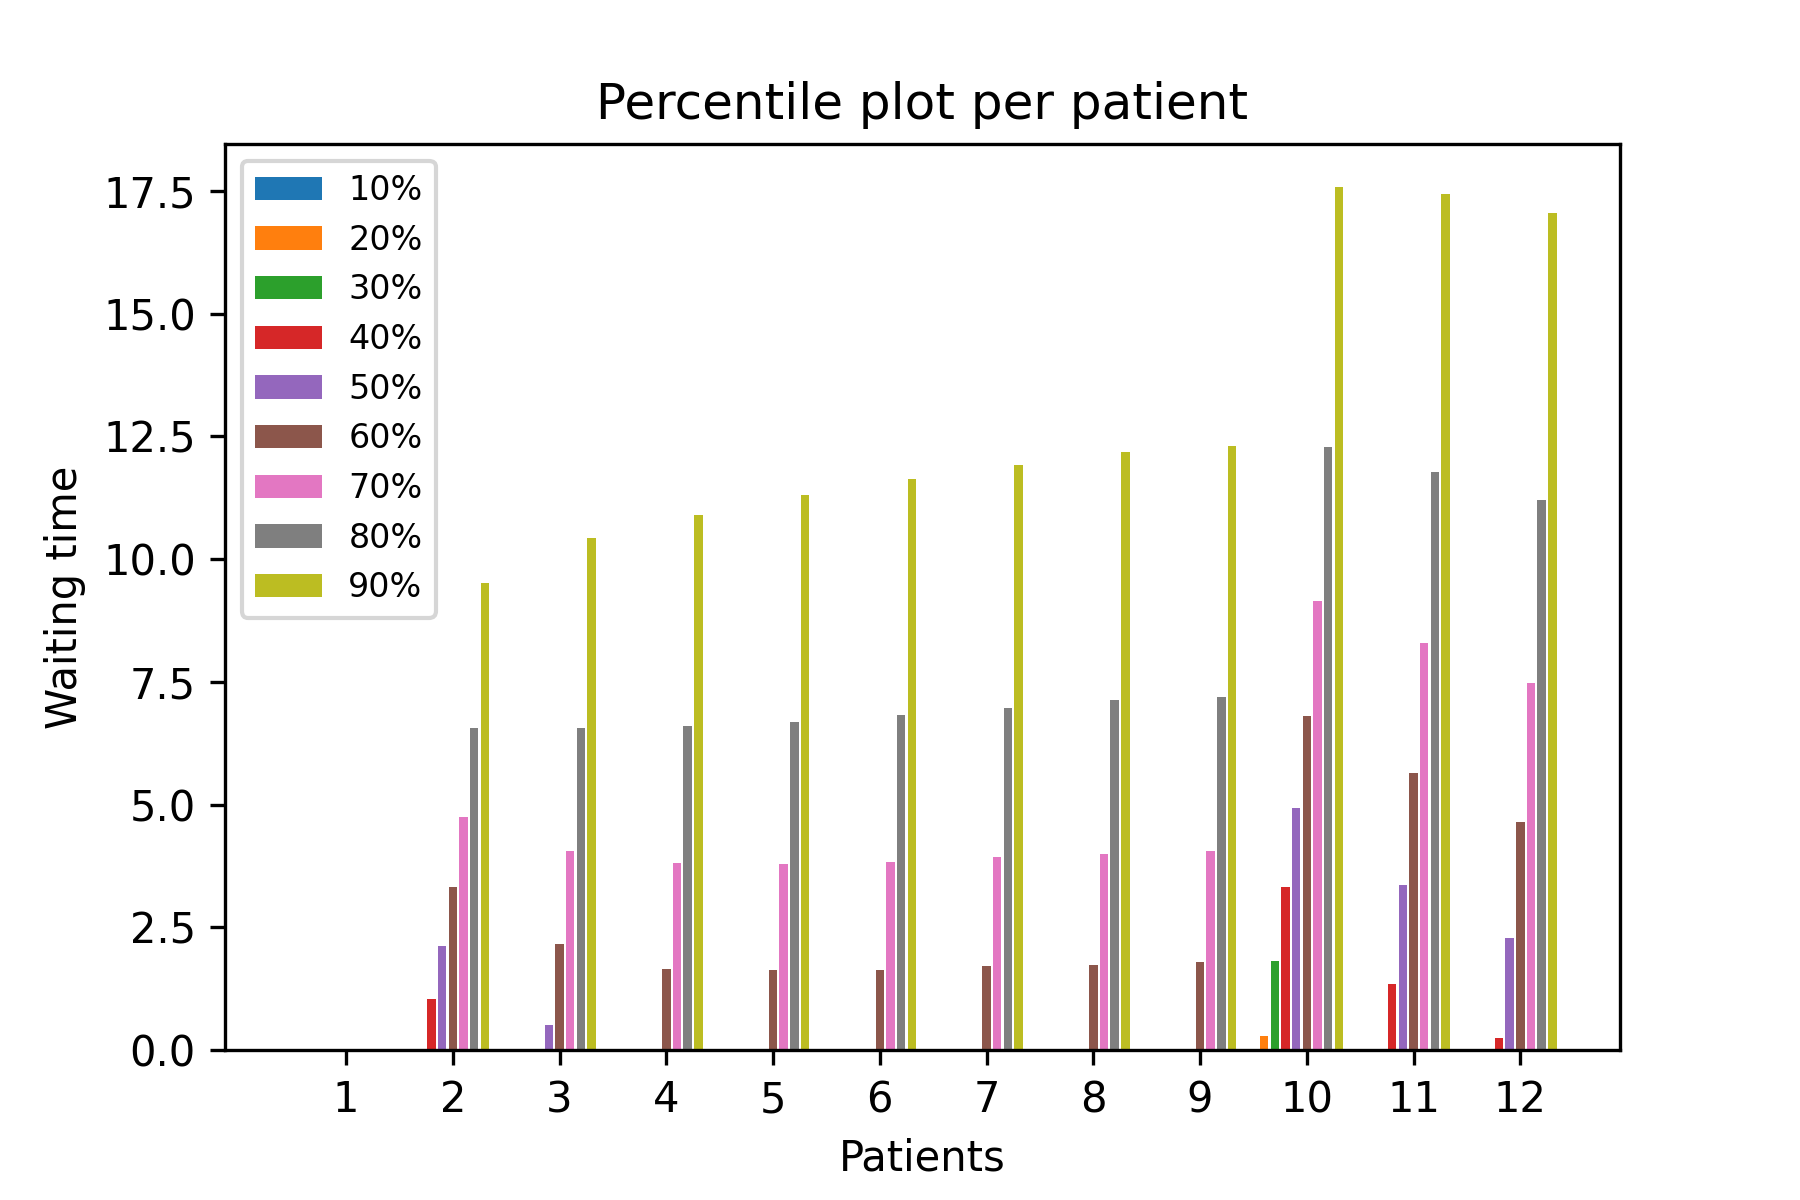
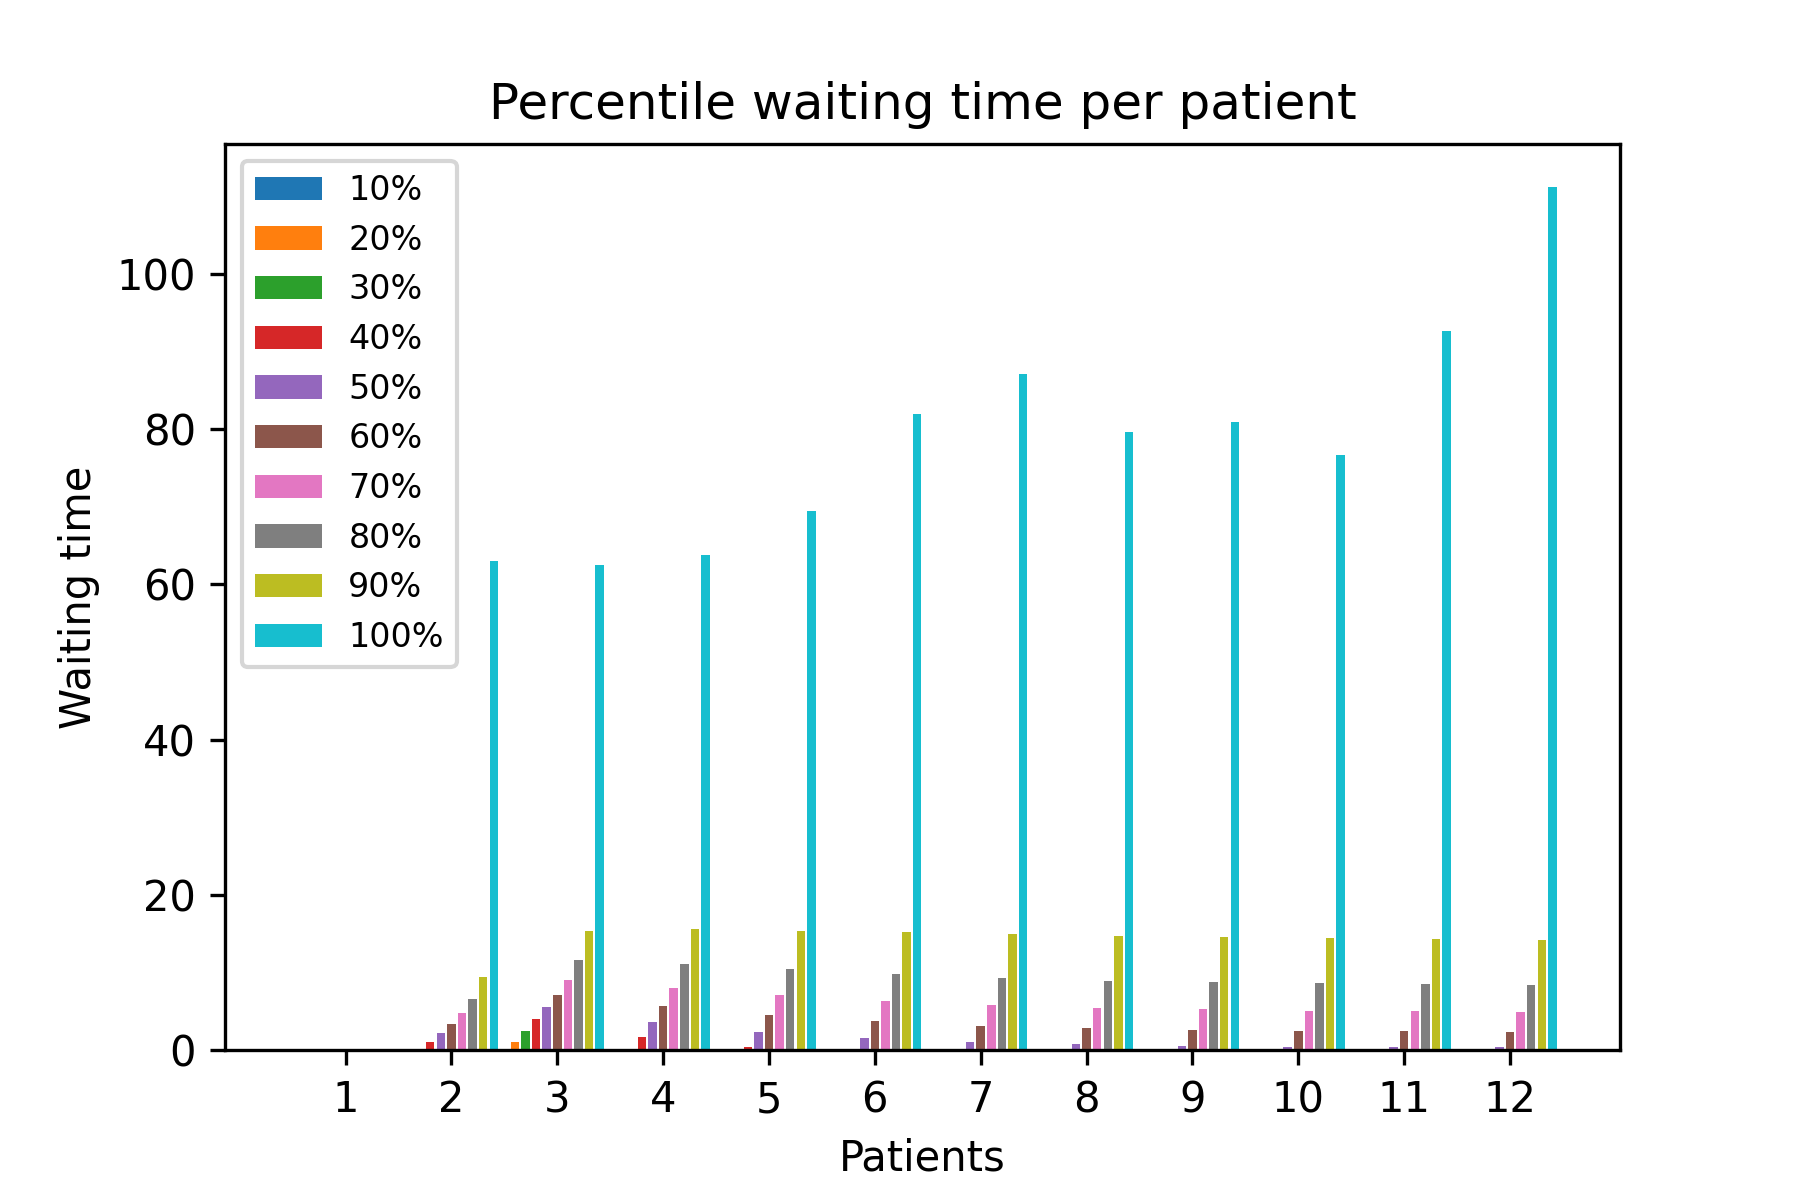
percentile and seed

diff --git a/assignment2_fergus2.py b/assignment2_fergus2.py
@@ -21,6 +21,7 @@ from statistics import mean
 import matplotlib.pyplot as plt
 
 random.seed(10)
+np.random.seed(10)
 #%%
 # """
 # a.
@@ -223,7 +224,7 @@ while budget > 0:
     budget -= 2*sims
 
 print("Total time: {:.2f}".format(time.time()-start_time))
-    
+
 
 #%%
 schedule_with_counts = {schedule:scores[schedule]['count'] for schedule in scores}
@@ -261,16 +262,16 @@ _,_,_,waiting_times = simulate(optimal_schedule,simulations=100000)
 patient_waiting_times = [[i[k] for i in waiting_times] for k in range(12)]
 
 pcts = []
-for j in [10,20,30,40,50,60,70,80,90]:
+for j in [10,20,30,40,50,60,70,80,90,100]:
     pcts.append([np.percentile(i,j) for i in patient_waiting_times])
     
 # pcts_array = [np.percentile(i,[10,20,30,40,50,60,70,80,90]) for i in patient_waiting_times]
 
 X_axis = np.arange(12)
 
-labels = ['10%','20%','30%','40%','50%','60%','70%','80%','90%']
+labels = ['10%','20%','30%','40%','50%','60%','70%','80%','90%','100%']
 
-for p in range(9):
+for p in range(10):
     if p<5:
         step = -0.1*(5-p)
     else:
@@ -280,8 +281,8 @@ for p in range(9):
 
 plt.xticks(X_axis, ['1','2','3','4','5','6','7','8','9','10','11','12'])
 plt.xlabel("Patients")
-plt.ylabel("Waiting time")
-plt.title("Percentile plot per patient")
+plt.ylabel("Waiting time (log)")
+plt.title("Percentile waiting time per patient")
 plt.legend(fontsize=8)
-# plt.show()
-plt.savefig('percentileplot.png', dpi=300)
+plt.yscale('log')
+plt.savefig('percentileplot2.png', dpi=300)
